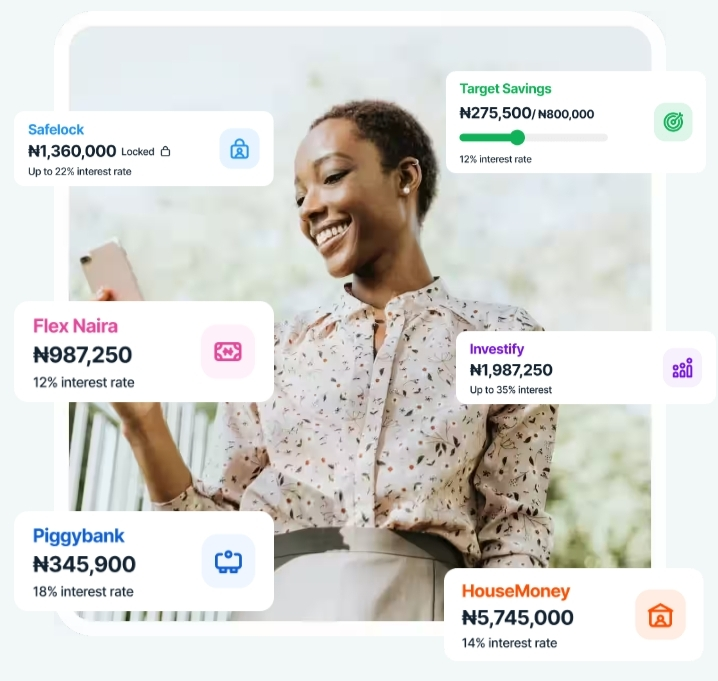
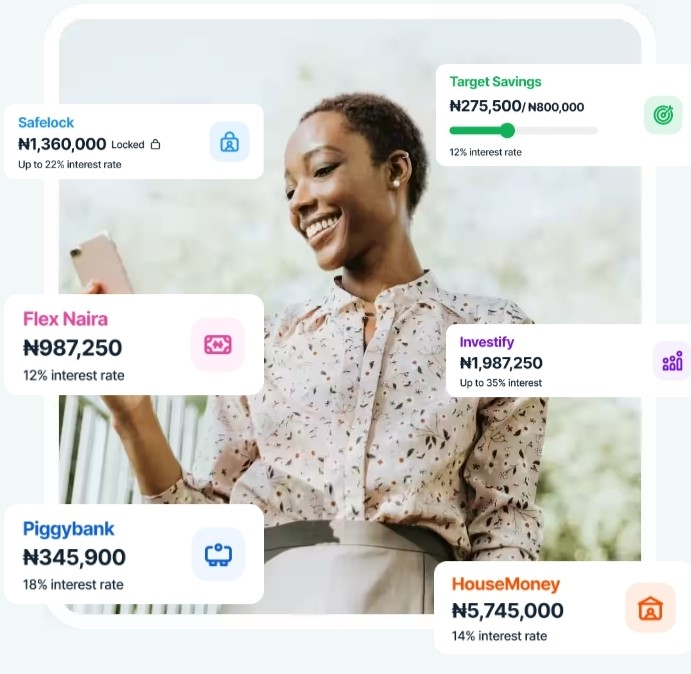
90% completion on media query

diff --git a/style2.css b/style2.css
@@ -7,11 +7,11 @@
         margin: 0px auto;
         padding: 10px 10px;
         justify-content: space-between;
+        max-width: 100%;
         
     }
     .header {
-      width: auto;
-      height: auto;
+        height: auto;
       background-color: blue;
       justify-content: space-between;
     
@@ -37,11 +37,15 @@
     }
     .icon {
         margin-left: 0;
+        max-width: 100%;
     }
     .icon p {
         font-size: 1.9vw;
         justify-content: center;
         margin: 10px;
+        max-width: 100%;
+    }
+    .invest {
         max-width: 100%;
     }
     .invest h1{
@@ -69,10 +73,13 @@
     }
     .img2 {
         margin-left: 0;
-        width: auto;
         height: auto;
-        max-width: 95%;
+        max-width: 100%;
         gap: 0;
+    }
+    .img {
+        max-width: 100%;
+        width: 87.5%;
     }
     .immg {
         display: block;
@@ -96,10 +103,11 @@
         margin-left: 0;
         margin: 0;
         display: block;
-        width: 48% !important;
+        max-width: 100%;
+        width: 100% !important;
         height: auto;
         position: relative;
-        left: -48px;
+        left: -50px;
         margin-top: 40px;
     }
     .key {
@@ -245,7 +253,7 @@
         margin-left: 0;
         margin: 10px;
         padding: 10px;
-        height: 160vw !important;
+        height: auto !important;
         margin-top: 0;
         background-color: #6404caec;
         position: relative;
@@ -271,11 +279,166 @@
         top: 0;
         font-weight: bold;
     }
-    .div-img img  {
-        width: 200px;
-        height: auto;
+    .div-img {
+        position: relative;
+        top: 12px;
+        right: 85px;
     }
-    .footer {
+    .div-img img  {
+        width: 320px;
+        height: auto;
+        justify-content: center;
+    }
+    .month {
+        max-width: 100%;
+         display: block;
+         background:  #f2f7f8;
+        padding: 0;
+        margin: 10px;
+        padding-top: 50px;
+    }
+    .monthly {
         display: block;
+    }
+    .meet h1 {
+        margin-bottom: 30px;
+        line-height: 1;
+        font-size: 34px;
+        width: 100%;
+    }
+    .meet p {
+        max-width: 100%;
+        font-size: 19px;
+    }
+    iframe {
+        margin-top: 30px;
+        max-width: 95%;
+        
+    }
+    .promo-section {
+        display: flex;
+        flex-direction: column-reverse;
+        max-width: 100%;
+         background-color: #f2f7f8;
+    }
+    .avatars {
+        display: none;
+    }
+    .promo-content {
+        max-width: 100%;
+        width: 100%;
+    }
+    .promo-content h1 {
+        max-width: 100%;
+        text-align: center;
+        width: 95%;
+        font-size: 36px;
+        margin-left: 10px;
+        
+        
+    }
+    .app-buttons {
+        max-width: 100%;
+        display: flex;
+        flex-direction: column;
+        position: relative;
+        left: 30px;
+    }
+    .app-buttons a {
+        margin-right: 0;
+    }
+    .app-buttons a:not(:first-child) {
+    margin-left: 0px;
+    margin-top: -30px;
+}
+.testimonial-card img {
+    max-width: 95%;
+    margin-left: 13px;
+    }
+    .company {
+        max-width: 100%;
+    }
+    .comp h1 {
+        font-size: 35px;
+    }
+    .comp-img img  {
+        width: 70%;
+        margin-left: 60px;
+        margin-top: 10px;
+    }
+.footer {
+        display: flex;
+        flex-direction: column;
+        max-width: 100%;
+        background-color: white;
+    }
+    .footer-logo {
+        display: block;
+        position: relative;
+        left: -90px;
+        bottom: 30px;
+        margin-top: 0 !important;
+    }
+    .footer-logo img {
+        width: 200px;
+    }
+    .footer-link {
+        display: grid;
+        grid-template-columns: 1fr 1fr;
+        max-width: 100%;
+        width: 100%;
+        margin-left: 0;
+        justify-items: start;
+    }
+    .footer-link h4 {
+        margin-right: 20px;
+        text-align: left;
+        width: 50%;
+        position: relative;
+        left: -40px;
+    }
+    .footer-link li {
+        margin-left: -20px;
+    }
+    .footer-head:last-of-type h4 {
+        margin-left: 30px;
+    }
+    .media {
+        margin-top: 10px !important;
+        max-width: 100%;
+        position: relative;
+        right: 0;
+        margin: 17px;
+    }
+    .address p {
+        margin-right: 0;
+        margin: 17px;
+        text-align: left !important;
+        line-height: 1.4;
+    }
+    .victoria {
+        margin-left: 0;
+    }
+    .address a {
+        margin-left: 0;
+        margin: 17px;
+    }
+    .number {
+        position: relative;
+        left: 0;
+        opacity: 0.6;
+    }
+    .last {
+        max-width: 100%;
+    }
+    .last1 {
+        max-width: 100%;
+        margin-left: 0;
+        margin: 10px;
+        padding: 0;
+    }
+    .last1 p {
+        max-width: 100%;
+        font-size: 11px;
     }
 }

diff --git a/style.css b/style.css
@@ -1044,8 +1044,11 @@ iframe {
     font-size: 15px;
     color: #0c1825;
     text-align: center;
-    margin-right: 30px;
+    margin-right: 78px;
 }
+.footer-head:last-of-type h4 {
+        margin-left: -50px;
+    }
 .address {
     width: 200px;
 }
